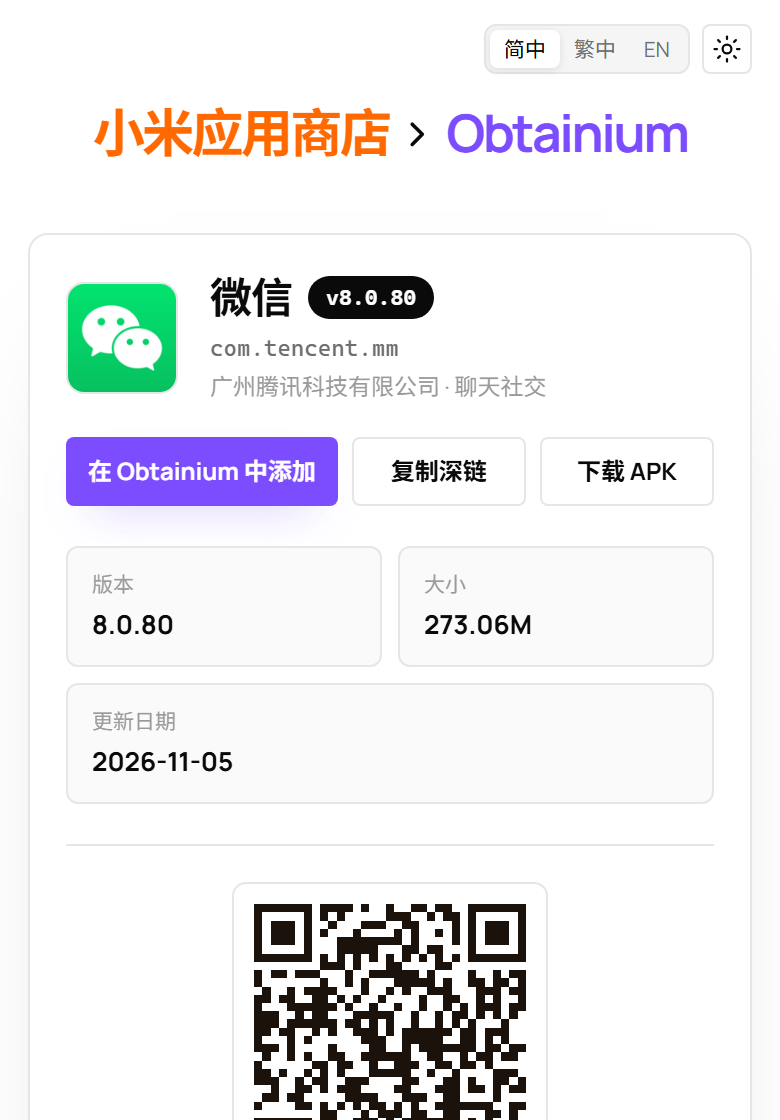
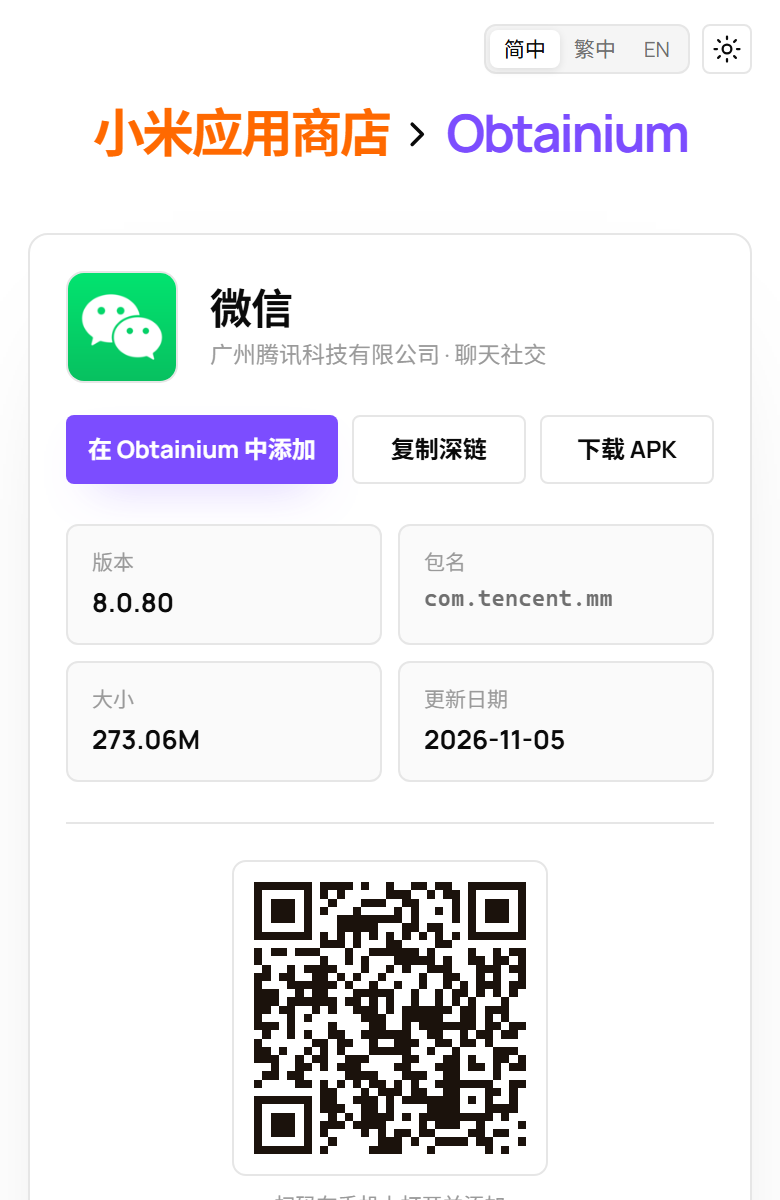
Arrange result metadata in a 2x2 grid

diff --git a/worker/index.js b/worker/index.js
@@ -396,7 +396,7 @@ async function renderPage(app, origin) {
   } catch (error) {}
 })();
 </script>
-<link rel="stylesheet" href="${PAGES_BASE}/styles.css?v=33">
+<link rel="stylesheet" href="${PAGES_BASE}/styles.css?v=34">
 </head>
 <body class="search-active" data-app-type="${escapeHtml(app.targetType)}">
 <div class="top-controls">
@@ -425,9 +425,7 @@ async function renderPage(app, origin) {
       <div class="result-title">
         <div class="title-line">
           <h2>${escapeHtml(app.name)}</h2>
-          <span class="version-badge">v${escapeHtml(app.version)}</span>
         </div>
-        <p class="pkg">${escapeHtml(app.pkg)}</p>
         <p class="byline">${escapeHtml(app.author)}${app.category ? ` · ${escapeHtml(app.category)}` : ''}</p>
       </div>
       <div class="result-actions">
@@ -439,6 +437,7 @@ async function renderPage(app, origin) {
 
     <div class="meta-grid">
       <div class="meta-item"><span data-i18n="version">版本</span><strong>${escapeHtml(app.version)}</strong></div>
+      <div class="meta-item"><span data-i18n="packageName">包名</span><strong class="pkg" title="${escapeHtml(app.pkg)}">${escapeHtml(app.pkg)}</strong></div>
       <div class="meta-item"><span data-i18n="size">大小</span><strong id="sizeValue" data-empty="${app.sizeText ? '0' : '1'}">${escapeHtml(app.sizeText || '未知')}</strong></div>
       <div class="meta-item"><span data-i18n="updated">更新日期</span><strong id="updatedValue" data-empty="${app.updated ? '0' : '1'}">${escapeHtml(app.updated || '未知')}</strong></div>
     </div>
@@ -453,10 +452,6 @@ async function renderPage(app, origin) {
           <span class="label" data-i18n="htmlSource">HTML 源</span>
           <code title="${escapeHtml(pageUrl)}" tabindex="0">${escapeHtml(pageUrl)}</code>
           <button class="icon-btn" id="copySource" type="button" data-copy="${escapeHtml(pageUrl)}">复制</button>
-        </div>
-        <div class="source-box">
-          <span class="label" data-i18n="packageName">包名</span>
-          <code>${escapeHtml(app.pkg)}</code>
         </div>
       </div>
     </div>

diff --git a/public/styles.css b/public/styles.css
@@ -544,12 +544,25 @@ body.modal-open { overflow: hidden; }
   font-weight: 700;
 }
 
-.pkg {
-  margin: 3px 0 0;
+.meta-item .pkg {
+  display: block;
+  margin: 0;
+  min-width: 0;
+  max-width: 100%;
   font-family: var(--mono);
   font-size: 11.5px;
+  font-weight: 500;
+  line-height: 1.45;
   color: var(--muted);
-  word-break: break-all;
+  white-space: nowrap;
+  overflow-x: auto;
+  overflow-y: hidden;
+  text-overflow: clip;
+  word-break: normal;
+  overflow-wrap: normal;
+  scrollbar-width: thin;
+  scrollbar-color: var(--line) transparent;
+  -webkit-overflow-scrolling: touch;
 }
 
 .byline {
@@ -567,7 +580,7 @@ body.modal-open { overflow: hidden; }
 
 .meta-grid {
   display: grid;
-  grid-template-columns: repeat(3, minmax(0, 1fr));
+  grid-template-columns: repeat(2, minmax(0, 1fr));
   gap: 8px;
   margin-top: 20px;
 }
@@ -753,7 +766,6 @@ body.modal-open { overflow: hidden; }
   .result-actions { flex: 1 0 100%; width: auto; }
   .result-actions .btn { flex: 1; }
   .meta-grid { grid-template-columns: repeat(2, minmax(0, 1fr)); }
-  .meta-grid .meta-item:last-child { grid-column: 1 / -1; }
   .result-body { grid-template-columns: 1fr; }
   .s-cat { display: none; }
 }
